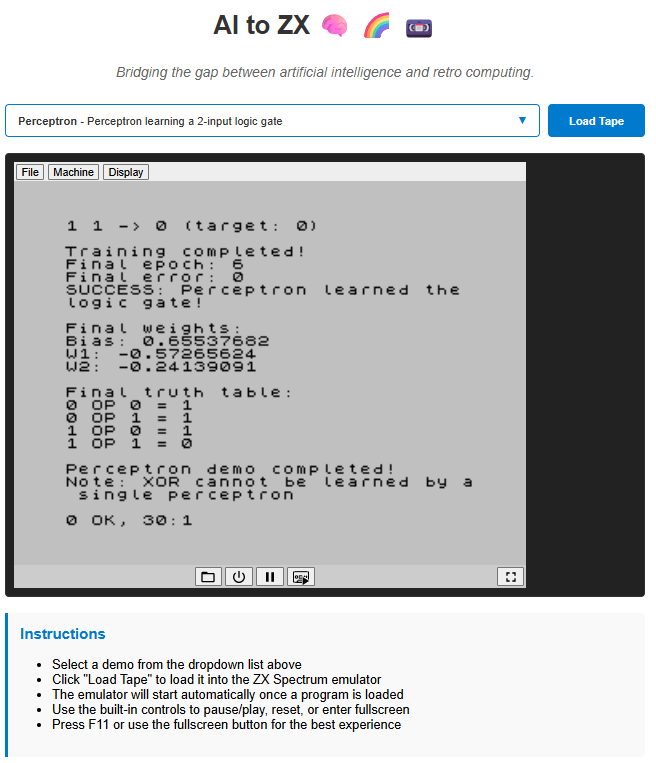
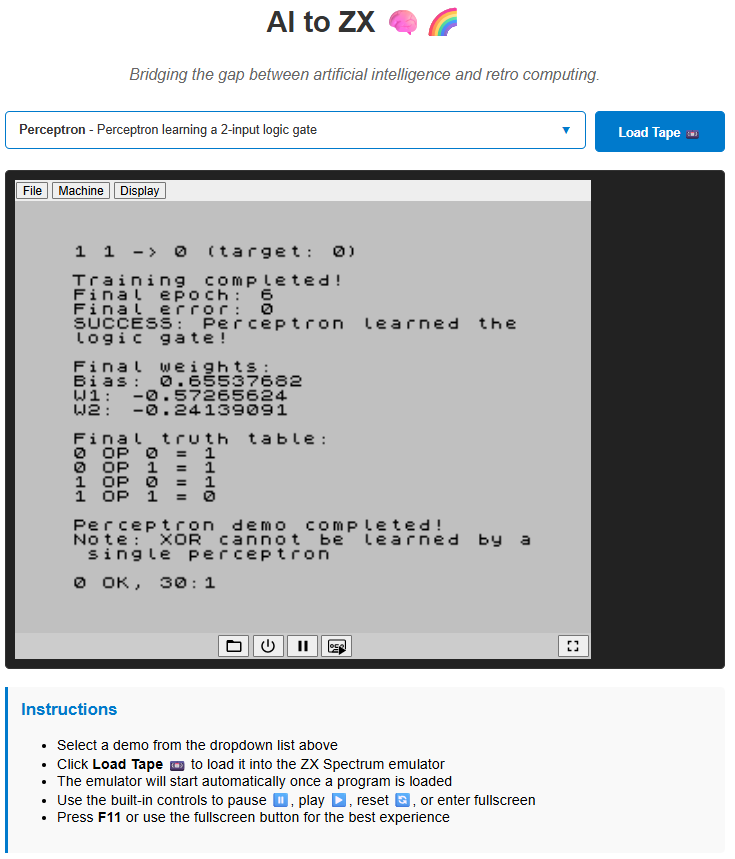
Refactor to add categories; Update docs

diff --git a/public/index.html b/public/index.html
@@ -151,6 +151,33 @@
             background-color: #e6f3ff;
         }
         
+        .dropdown-category {
+            padding: 8px 15px;
+            font-weight: bold;
+            color: #007acc;
+            background-color: #f0f8ff;
+            border-bottom: 1px solid #ddd;
+            cursor: default;
+            font-size: 12px;
+            text-transform: uppercase;
+            letter-spacing: 0.5px;
+        }
+        
+        .dropdown-option.demo-item {
+            padding-left: 30px;
+            border-left: 3px solid transparent;
+        }
+        
+        .dropdown-option.demo-item:hover {
+            background-color: #f0f8ff;
+            border-left-color: #007acc;
+        }
+        
+        .dropdown-option.demo-item.selected {
+            background-color: #e6f3ff;
+            border-left-color: #005a9e;
+        }
+        
         .demo-name {
             font-weight: bold;
             color: #333;
@@ -202,7 +229,7 @@
 </head>
 <body>
     <div class="container">
-        <h1>AI to ZX 🧠 🌈 📼</h1>
+        <h1>AI to ZX 🧠🌈</h1>
         <p style="text-align: center; color: #666; font-size: 1.1em; margin-bottom: 30px; font-style: italic;">
             Bridging the gap between artificial intelligence and retro computing.<br>
         </p>
@@ -231,10 +258,10 @@
             <h3>Instructions</h3>
             <ul>
                 <li>Select a demo from the dropdown list above</li>
-                <li>Click "Load Tape" to load it into the ZX Spectrum emulator</li>
+                <li>Click <b>Load Tape 📼</b> to load it into the ZX Spectrum emulator</li>
                 <li>The emulator will start automatically once a program is loaded</li>
-                <li>Use the built-in controls to pause/play, reset, or enter fullscreen</li>
-                <li>Press F11 or use the fullscreen button for the best experience</li>
+                <li>Use the built-in controls to pause ⏸, play ▶, reset 🔄, or enter fullscreen</li>
+                <li>Press <b>F11</b> or use the fullscreen button for the best experience</li>
             </ul>
         </div>
     </div>
@@ -281,30 +308,68 @@
                 
                 const descriptions = await descResponse.json();
 
-                availableDemos = Object.entries(descriptions).map(([filename, description]) => {
+                // Parse demos and organize by category
+                availableDemos = Object.entries(descriptions).map(([filename, demoData]) => {
                     const name = filename.replace('.tap', '').replace(/[-_]/g, ' ');
+                    
+                    // Handle both old format (string) and new format (object)
+                    let description, category;
+                    if (typeof demoData === 'string') {
+                        description = demoData;
+                        category = 'Miscellaneous';
+                    } else {
+                        description = demoData.description || 'No description available';
+                        category = demoData.category || 'Miscellaneous';
+                    }
+                    
                     return {
                         name: name.charAt(0).toUpperCase() + name.slice(1),
                         file: filename,
-                        description: description
+                        description: description,
+                        category: category
                     };
                 });
                 
-                // Populate custom dropdown
+                // Group demos by category
+                const categorizedDemos = {};
                 availableDemos.forEach(demo => {
-                    const option = document.createElement('div');
-                    option.className = 'dropdown-option';
-                    option.dataset.value = demo.file;
-                    option.innerHTML = `
-                        <div class="demo-name">${demo.name}</div>
-                        <div class="demo-desc">${demo.description}</div>
-                    `;
+                    if (!categorizedDemos[demo.category]) {
+                        categorizedDemos[demo.category] = [];
+                    }
+                    categorizedDemos[demo.category].push(demo);
+                });
+                
+                // Sort categories alphabetically, but put "Miscellaneous" last
+                const sortedCategories = Object.keys(categorizedDemos).sort((a, b) => {
+                    if (a === 'Miscellaneous') return 1;
+                    if (b === 'Miscellaneous') return -1;
+                    return a.localeCompare(b);
+                });
+                
+                // Populate custom dropdown with categories
+                sortedCategories.forEach(categoryName => {
+                    // Add category header
+                    const categoryHeader = document.createElement('div');
+                    categoryHeader.className = 'dropdown-category';
+                    categoryHeader.textContent = categoryName;
+                    dropdownOptions.appendChild(categoryHeader);
                     
-                    option.addEventListener('click', function() {
-                        selectDemo(demo, this);
+                    // Add demos in this category
+                    categorizedDemos[categoryName].forEach(demo => {
+                        const option = document.createElement('div');
+                        option.className = 'dropdown-option demo-item';
+                        option.dataset.value = demo.file;
+                        option.innerHTML = `
+                            <div class="demo-name">${demo.name}</div>
+                            <div class="demo-desc">${demo.description}</div>
+                        `;
+                        
+                        option.addEventListener('click', function() {
+                            selectDemo(demo, this);
+                        });
+                        
+                        dropdownOptions.appendChild(option);
                     });
-                    
-                    dropdownOptions.appendChild(option);
                 });
                 
                 // Add dropdown toggle functionality
@@ -347,8 +412,8 @@
             document.getElementById('dropdown-text').innerHTML = `<strong>${demo.name}</strong> - ${demo.description}`;
             document.getElementById('load-button').disabled = false;
             
-            // Update selected state
-            document.querySelectorAll('.dropdown-option').forEach(opt => {
+            // Update selected state - only for demo items, not category headers
+            document.querySelectorAll('.dropdown-option.demo-item').forEach(opt => {
                 opt.classList.remove('selected');
             });
             optionElement.classList.add('selected');

diff --git a/public/demos/README.md b/public/demos/README.md
@@ -1,27 +1,5 @@
-# Demo Programs
+# Demo Tapes 📼
 
-This directory contains compiled ZX Spectrum programs in TAP format.
+This directory hosts the compiled ZX Spectrum programs in TAP format and their descriptions.
 
-## Available Demos
-
-- **0-hello-world.tap** - A simple "Hello World" program demonstrating basic ZX BASIC output
-
-## How to Load
-
-1. Start the emulator on the main page
-2. Select a demo from the dropdown menu and click "Load Demo"
-3. In the emulator, type `LOAD ""` and press Enter
-4. Press `R` to run the loaded program
-
-## Adding New Demos
-
-To add new demos:
-1. Place your .tap files in this directory
-2. The emulator will automatically detect them (or update the demo list in app.js)
-
-## File Formats Supported
-
-- .tap - Tape archive files
-- .tzx - Extended tape files  
-- .sna - Snapshot files
-- .z80 - Compressed snapshot files
+These programs can be run through the web page emulator or using external emulators like FUSE (Free Unix Spectrum Emulator).

diff --git a/README.md b/README.md
@@ -80,7 +80,12 @@ To build and run this project locally, you'll need the following tools installed
 
 ### Tools & Software 🧰
 
+* [FUSE](https://fuse-emulator.sourceforge.net/) - a ZX Spectrum emulator for various platforms
 * [ZX BASIC](https://zxbasic.readthedocs.io/) - a BASIC cross-compiler for the ZX Spectrum
 * [JSSpeccy](https://github.com/gasman/jsspeccy3) - A JavaScript-based ZX Spectrum emulator that runs in web browsers
+
+### Miscellaneous
+
+* [ZX Art](https://zxart.ee/eng/mainpage/) - ZX Spectrum graphics and art repository
 
 ![](images/zx_spectrum_graphics.gif)
